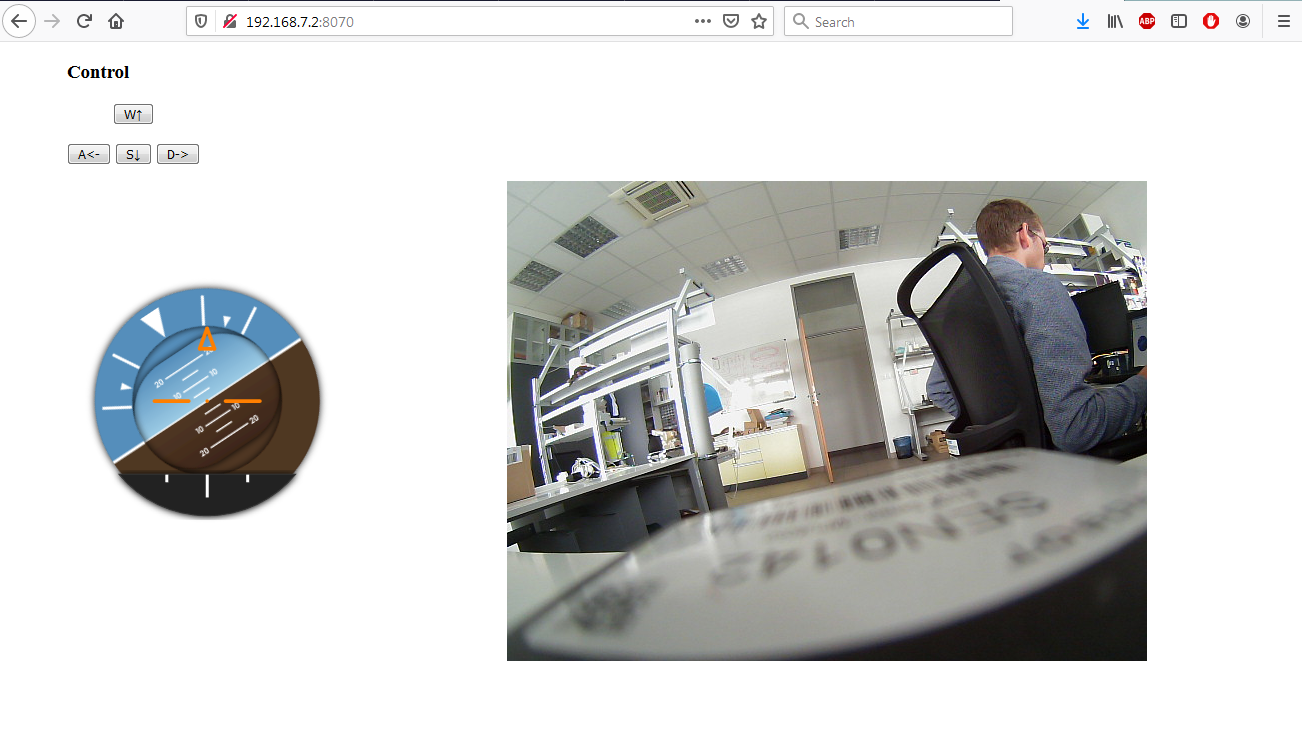
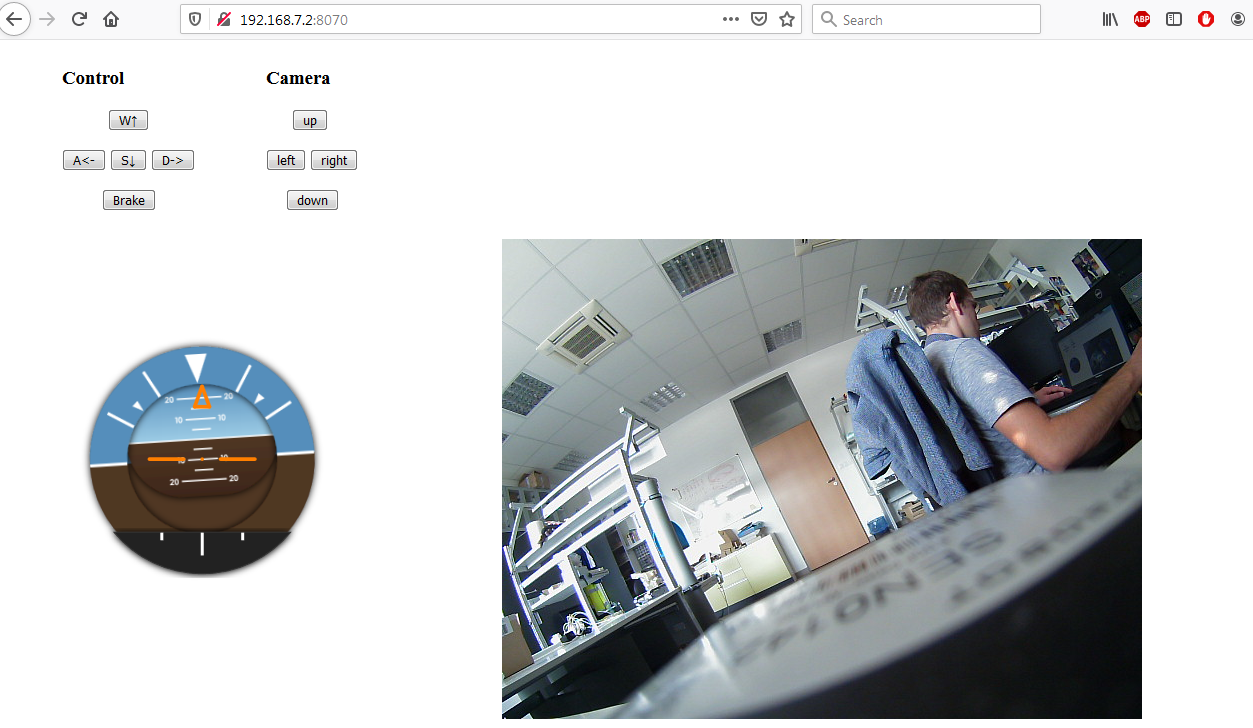
Camera control

diff --git a/horizon.html b/horizon.html
@@ -8,18 +8,32 @@
                     background-color: white;
                  }
 	    #control {
-         	 margin-top: 10px;
         	 margin-left: 60px;
-		 width: 300px;
+		 width: 200px;	
+		 display:inline-block;
          	}
+	    #camera {
+                 margin-left: 0px;
+		 width: 200px;
+		 display:inline-block;
+                }
+	    #front {
+                margin: 2px 46px;
+                }
+	    #brake {
+                margin: 2px 40px;
+                }
 	    #webcam {
                  margin-top: 10px;
                  margin-left: 500px;
 		 width: 500px;
                 }
-	    #front {
-         	margin: 2px 46px;
+	    #up {
+         	margin: 2px 26px;
          	}
+	    #down {
+                margin: 2px 20px;
+                }
 	    .parent {
 	     	 position: relative;
  	 	 top: 70px;
@@ -58,9 +72,18 @@
 	   <p> <button id="front" onclick="vpred()">W↑</button> </p>
 	   <p> <button id="left" onclick="leva()">A<-</button> 
 	       <button id="back" onclick="vzad()">S↓</button>         
-	       <button id="right" onclick="prava()">D-></button>
-	   </p>
+	       <button  id="right" onclick="prava()">D-></button>
+	   <p><button id="brake" onclick="brzda()">Brake</button> </p>
+
 	</div>
+	 <div id="camera">
+           <h3>Camera</h3>
+           <p> <button id="up" onclick="nahoru()">up</button> </p>
+           <p> <button id="left" onclick="doleva()">left</button>
+               <button id="right" onclick="doprava()">right</button>
+           </p>
+	    <p><button id="down" onclick="dolu()">down</button> </p>
+        </div>
 	 <div id="webcam"><noscript><img src="./?action=snapshot" /></noscript></div>
 	<div class="parent">
   	  <img id="image1" src="img/horizon_back.svg" />
@@ -96,7 +119,22 @@
         img2.style.transform = 'rotate(' + angle + 'deg)';
         img3.style.transform = 'rotate(' + angle + 'deg)';
 	}
-    
+       function nahoru() {
+           socket.emit("pohyb", "i");
+        }
+      function dolu() {
+           socket.emit("pohyb", "k");
+        }
+      function doleva() {
+           socket.emit("pohyb", "n");
+        }
+
+      function doprava() {
+           socket.emit("pohyb", "m");
+        }
+      function brzda() {
+           socket.emit("pohyb", "b");
+        }
       function vpred() {	 
            socket.emit("pohyb", "w");
         }

diff --git a/test.py b/test.py
@@ -2,19 +2,16 @@
 """
 Created on  Apr 22 11:40w 2019
 
-@author: josef.svec
+@author: jindrich.jansa, josef.svec
 """
 # TODO - reset AB and CD -> start PWM -> enable AB and CD
-import smbus
 import time 
 import os, sys, termios, tty
 import Adafruit_BBIO.PWM as PWM
 import Adafruit_BBIO.GPIO as GPIO
 
-address =0x44
-bus=smbus.SMBus(1)
-Angle_R=60
-Angle_P=60
+Angle_R=50
+Angle_P=50
 button_delay = 0.1 #[s] insensivity of the buttons
 duration = 0.3 #[s] duration of the selected action
 PWM_f = 20000 #[Hz]
@@ -37,6 +34,8 @@ LED2 = "P8_19"
 EN_3V3 = "P8_18"
 #in_OTW = "P8_8"
 #in_FAULT= "P8_7"
+kamera_a = "P9_21"
+kamera_b = "P9_22"
 
 # print(PWM.VERSION)
 PWM.cleanup()
@@ -50,6 +49,8 @@ GPIO.output(reset_CD, GPIO.LOW)
 GPIO.output(EN_3V3, GPIO.LOW)
 PWM.start(motor_l)
 PWM.start(motor_p)
+PWM.start(kamera_a)
+PWM.start(kamera_b)
 # PWM.set_frequency(motor_l, PWM_f)
 # PWM.set_frequency(motor_l, PWM_f)
 PWM.set_duty_cycle(motor_l, 50)
@@ -133,25 +134,25 @@ def LRoll():
     Angle_R=Angle_R+5
     if Angle_R>175:
 	Angle_R=175
-    bus.write_byte_data(address,4,Angle_R)
+    PWM.set_duty_cycle(kamera_a, Angle_R)
 def RRoll():
     global Angle_R
     Angle_R=Angle_R-5
     if Angle_R<5:
 	Angle_R=5
-    bus.write_byte_data(address,4,Angle_R)
+    PWM.set_duty_cycle(kamera_a, Angle_R)
 def DPitch():
     global Angle_P
     Angle_P=Angle_P+5
     if Angle_P>175:
 	Angle_P=175
-    bus.write_byte_data(address,3,Angle_P)
+    PWM.set_duty_cycle(kamera_b, Angle_P)
 def UPitch():
     global Angle_P
     Angle_P=Angle_P-5
     if Angle_P<5:
 	Angle_P=5
-    bus.write_byte_data(address,3,Angle_P)
+    PWM.set_duty_cycle(kamera_b, Angle_P)
 # Read an character via the serial
 def getch():
     fd = sys.stdin.fileno()
@@ -197,16 +198,16 @@ while True:
     elif (char == "q"):
         LSlant()
         time.sleep(button_delay)
-    elif (char == "n"):
+    elif (char == "n\n"):
         LRoll()
         time.sleep(button_delay)
-    elif (char == "m"):
+    elif (char == "m\n"):
         RRoll()
         time.sleep(button_delay)
-    elif (char == "k"):
+    elif (char == "k\n"):
         DPitch()
         time.sleep(button_delay)
-    elif (char == "i"):
+    elif (char == "i\n"):
         UPitch()
         time.sleep(button_delay)
     elif (char == "e"):
